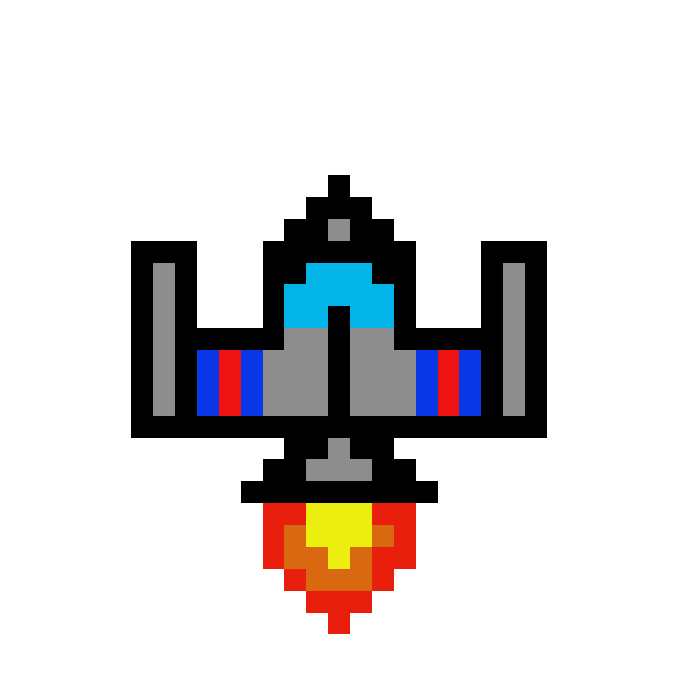
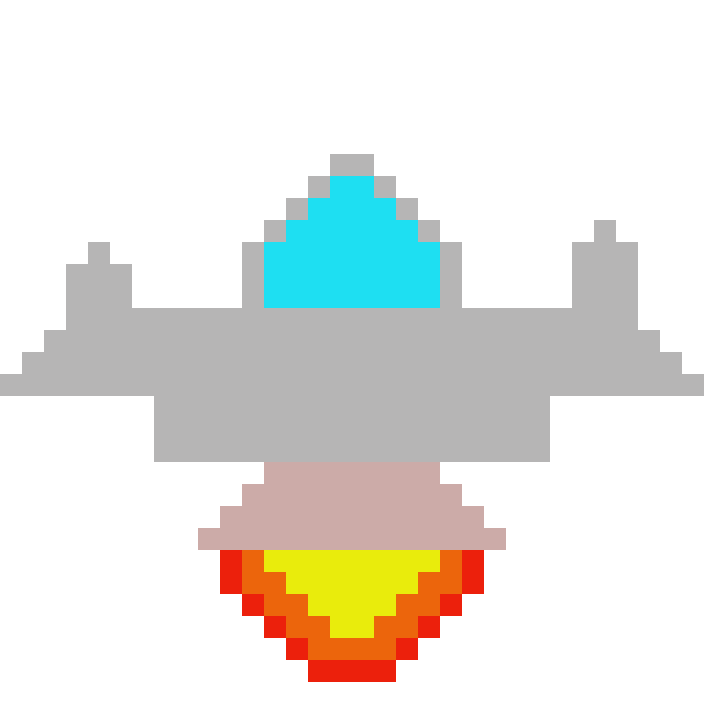
Cleaned up the sprites that are used at the moment.

diff --git a/player_helper.py b/player_helper.py
@@ -36,7 +36,7 @@ class Player:
             self.speed_x = 0
             
     def check_screen_collision(self):
-        if self.x + self.width > constants_si.SCREEN_X:
+        if self.x + self.width >= constants_si.SCREEN_X:
             return [False, True]
         elif self.x <= 0:
             return [True, False]
@@ -50,7 +50,7 @@ class Player:
             self.attack_time_checker = pygame.time.get_ticks()
         
     def add_laser(self):
-        laser = Laser(self.x + 35, self.y + 35, "green_laser.png", 30, 30, 10)
+        laser = Laser(self.x + 48, self.y + 35, "green_laser.png", 5, 20, 10)
         self.lasers.append(laser)
 
     def draw_and_move_lasers(self, screen):
@@ -66,7 +66,7 @@ class Player:
             for laser in self.lasers:
                 y_check = (enemy.y + enemy.height) >= laser.y and enemy.y <= laser.y
                 if y_check == True:
-                    x_check = enemy.x <= laser.x and enemy.x + enemy.width >= laser.x
+                    x_check = enemy.x <= laser.x + laser.width and enemy.x + enemy.width >= laser.x
                     if x_check == True:
                         enemy.color = constants_si.RED
                         self.expired_lasers.append(laser)

diff --git a/SpaceInvadersPygame.py b/SpaceInvadersPygame.py
@@ -7,7 +7,7 @@ pygame.init()
  
 screen = game_handler.create_screen([constants_si.SCREEN_X, constants_si.SCREEN_Y])
 
-player = player_helper.Player("PlayerShip.png", 600, 675, 100, 100, 0)
+player = player_helper.Player("player_ship.png", 600, 675, 100, 100, 0)
 
 player_shooting = False
 
